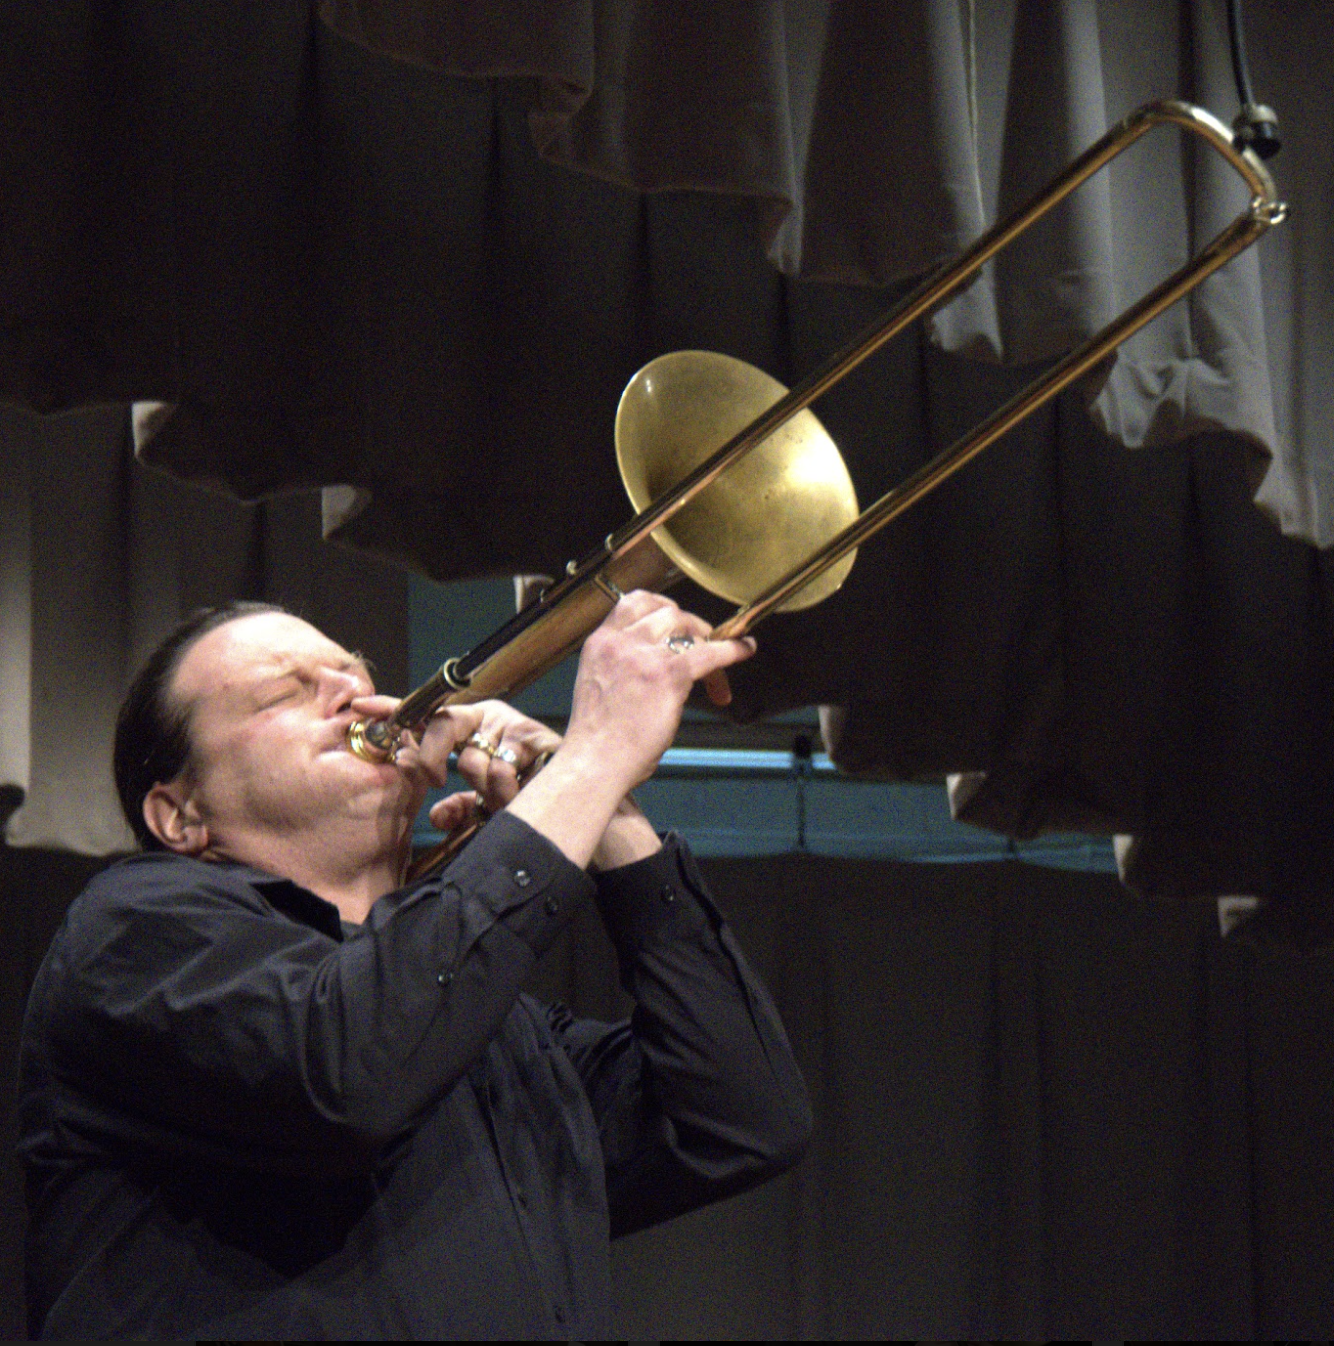
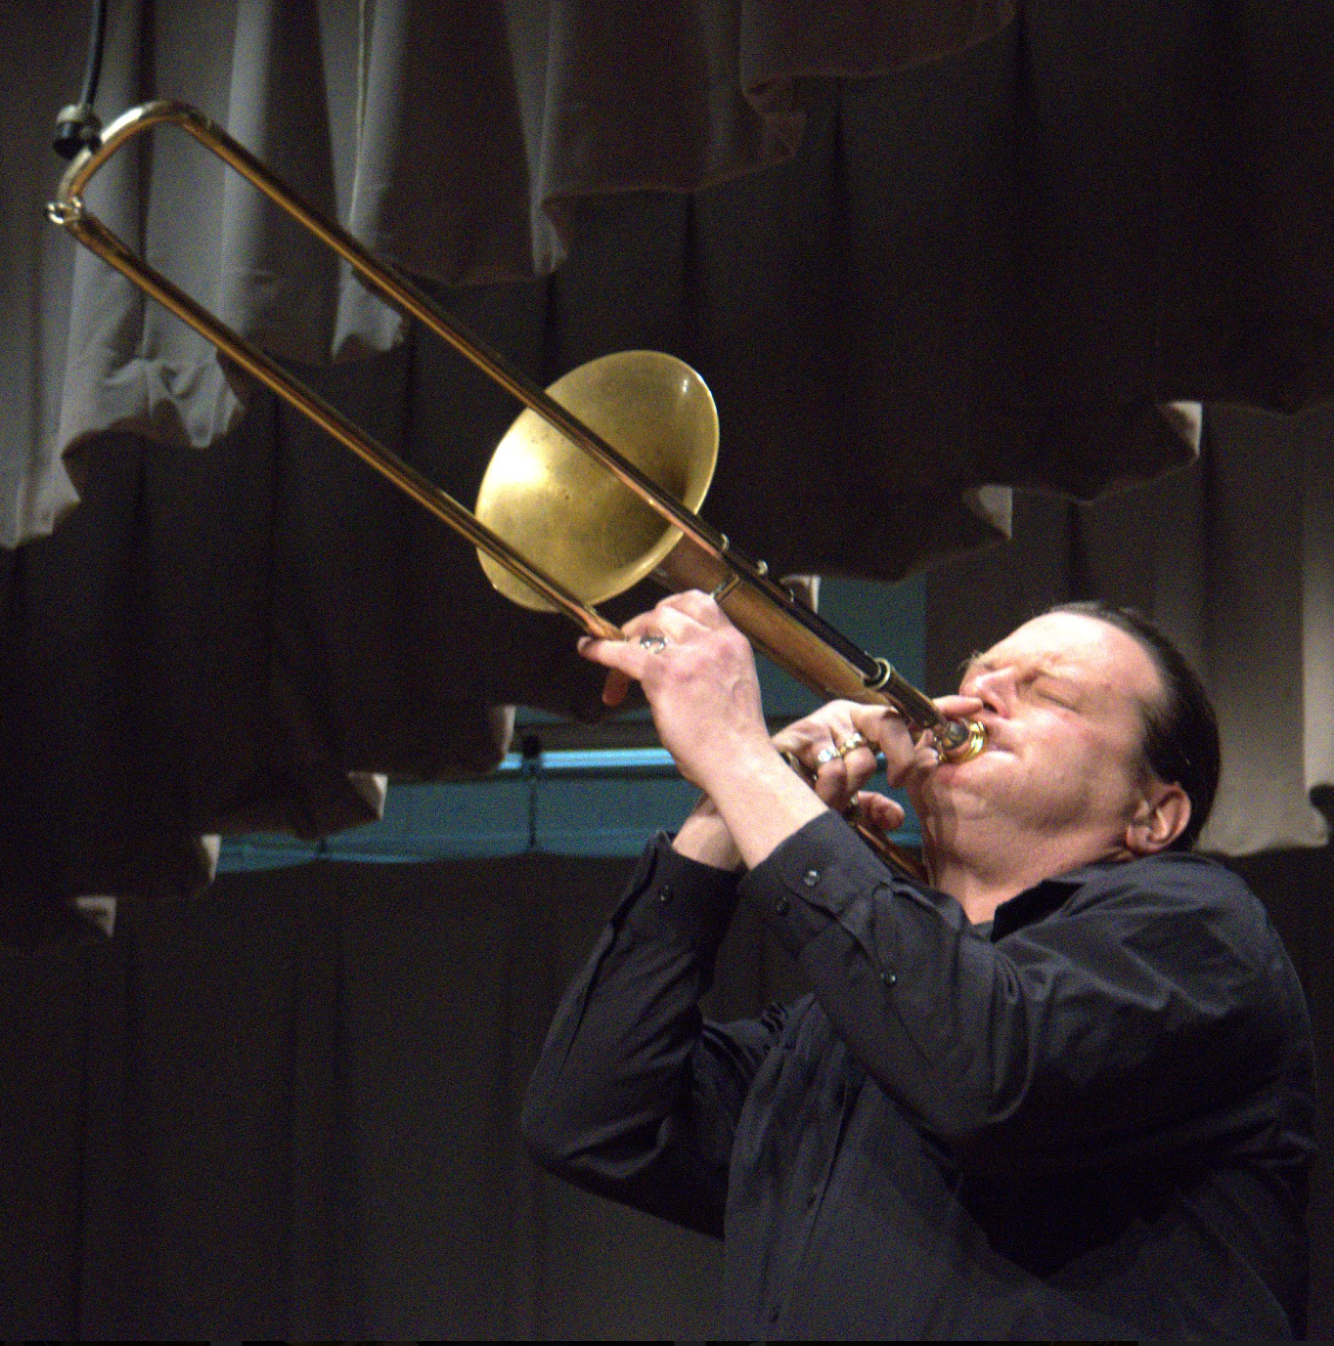
Responsive events page

diff --git a/src/pages/Events.tsx b/src/pages/Events.tsx
@@ -1,26 +1,30 @@
 import { Card, CardContent, CardHeader, CardTitle } from "@/components/ui/card";
+import LJBRobAlt from "../lib/assets/LJB_RobSusman.webp";
 import LJBRob from "../lib/assets/LJBRob.webp";
 import AWLogo from "../lib/assets/artsWestchesterLogo.png";
 
 const Events = () => {
   return (
     <div>
-      <img src={LJBRob} />
-      <div className="absolute inset-y-0 left-10 top-16 bg-neutral-900/75 p-10 w-2/6 h-full">
-        <h1 className="font-roboto text-4xl tracking-wide text-amber-400 mb-4 place-self-center ">
+      <picture>
+        <source srcSet={LJBRob} media="(min-width: 1400px)" />
+        <img src={LJBRobAlt} className="hidden lg:block"/>
+      </picture>
+      <div className="absolute inset-y-12 lg:inset-y-0 lg:left-10 lg:top-16 bg-neutral-900/75 p-10 w-screen lg:w-2/6 h-fit">
+        <h1 className="font-roboto text-2xl lg:text-4xl tracking-wide text-amber-400 mb-4 place-self-center ">
           Events
         </h1>
-        <h2 className="font-roboto text-2xl tracking-wide text-amber-400 mb-4">
+        <h2 className="font-roboto text-lg lg:text-2xl tracking-wide text-amber-400 mb-4">
           2024
         </h2>
         <Card className="mb-6">
           <CardHeader>
-            <CardTitle className="font-roboto text-lg">
+            <CardTitle className="font-roboto text-md lg:text-lg">
               <span>It's Showtime: LJB Takes on Broadway</span>
             </CardTitle>
           </CardHeader>
           <CardContent>
-            <h2 className="text-md text-indigo-900 font-bold">
+            <h2 className="text-sm lg:text-md text-indigo-900 font-bold">
               Sunday, November 17 at 2pm
             </h2>
             <span className="text-sm font-robotoThin">
@@ -28,7 +32,7 @@ const Events = () => {
             </span>
           </CardContent>
           <CardContent>
-            <h2 className="text-md text-indigo-900 font-bold">
+            <h2 className="text-sm lg:text-md text-indigo-900 font-bold">
               Sunday, November 24 at 2pm
             </h2>
             <span className="text-sm font-robotoThin">
@@ -45,17 +49,17 @@ const Events = () => {
             </p>
           </CardContent>
         </Card>
-        <h2 className="font-roboto text-2xl tracking-wide text-amber-400 mb-4">
+        <h2 className="font-roboto text-lg lg:text-2xl  tracking-wide text-amber-400 mb-4">
           2025
         </h2>
         <Card>
           <CardHeader>
-            <CardTitle className="font-roboto  text-lg">
+            <CardTitle className="font-roboto text-md lg:text-lg">
               <span>Hitting the Low Notes</span>
             </CardTitle>
           </CardHeader>
           <CardContent>
-            <h2 className="text-md text-indigo-900 font-bold">
+            <h2 className="text-sm lg:text-md text-indigo-900 font-bold">
               April 2025 [Date TBD]
             </h2>
 
@@ -67,22 +71,39 @@ const Events = () => {
             </p>
           </CardContent>
         </Card>
+        <div className="relative lg:hidden">
+          <div className="flex absolute -inset-x-10 inset-y-40 bg-neutral-900/75 p-10 w-screen h-2/4 rounded-xl items-center font-robotoThin  text-sm text-center">
+            <Card className="mt-20 md:mt-32">
+              <CardHeader>
+                <img src={AWLogo}></img>
+              </CardHeader>
+              <CardContent>
+                <p>
+                  Library Jazz Band’s 2024 - 2025 Season is made possible with
+                  funds from Arts Alive, a regrant program of ArtsWestchester
+                  with support from the Office of the Governor, the New York
+                  State Legislature, and the New York State Council on the Arts.
+                </p>
+              </CardContent>
+            </Card>
+          </div>
+        </div>
       </div>
-      <div className="flex absolute inset-y-0 right-10 top-36 bg-neutral-900/75 p-10 w-2/6 h-2/4 rounded-xl items-center font-robotoThin  text-sm text-center">
-        <Card>
-          <CardHeader>
-            <img src={AWLogo}></img>
-          </CardHeader>
-          <CardContent>
-            <p>
-              Library Jazz Band’s 2024 - 2025 Season is made possible with funds
-              from Arts Alive, a regrant program of ArtsWestchester with support
-              from the Office of the Governor, the New York State Legislature,
-              and the New York State Council on the Arts.
-            </p>
-          </CardContent>
-        </Card>
-      </div>
+      <div className="hidden lg:block absolute inset-y-0 right-10 top-36 bg-neutral-900/75 p-10 w-2/6 h-fit rounded-xl items-center font-robotoThin  text-sm text-center">
+            <Card>
+              <CardHeader>
+                <img src={AWLogo}></img>
+              </CardHeader>
+              <CardContent>
+                <p>
+                  Library Jazz Band’s 2024 - 2025 Season is made possible with
+                  funds from Arts Alive, a regrant program of ArtsWestchester
+                  with support from the Office of the Governor, the New York
+                  State Legislature, and the New York State Council on the Arts.
+                </p>
+              </CardContent>
+            </Card>
+          </div>
     </div>
   );
 };

diff --git a/src/styles/background.css b/src/styles/background.css
@@ -1,4 +1,4 @@
-body {
+.background {
   background: linear-gradient(
     0deg,
     rgba(255, 255, 255, 1) 87%,
@@ -7,7 +7,7 @@ body {
 }
 
 @media screen and (min-width: 420px) {
-  body {
+  .background {
     background: linear-gradient(
       0deg,
       rgba(255, 255, 255, 1) 84%,
@@ -17,7 +17,7 @@ body {
 }
 
 @media screen and (min-width: 750px) {
-  body {
+  .background {
     background: linear-gradient(
       0deg,
       rgba(255, 255, 255, 1) 79%,
@@ -27,7 +27,7 @@ body {
 }
 
 @media screen and (min-width: 1024px) {
-  body {
+  .background {
     background: linear-gradient(
       0deg,
       rgba(255, 255, 255, 1) 78%,
@@ -37,7 +37,7 @@ body {
 }
 
 @media screen and (min-width: 1440px) {
-  body {
+  .background {
     background: linear-gradient(
       0deg,
       rgba(255, 255, 255, 1) 78%,
@@ -48,7 +48,7 @@ body {
 
 
 @media screen and (min-width: 2000px) {
-  body {
+  .background {
     background: linear-gradient(
       0deg,
       rgba(255, 255, 255, 1) 89%,

diff --git a/src/App.tsx b/src/App.tsx
@@ -16,9 +16,9 @@ function App() {
             <NavBar />
           </div>
           <Routes>
-            <Route path="/" element={<Landing />} />
-            <Route path="/about" element={<AboutPage />} />
+            <Route path="/" element={<Landing/>} />
             <Route path="/events" element={<Events />} />
+            <Route path="/about" element={<AboutPage />} />
             <Route path="/donate" element={<Donate />} />
           </Routes>
         </BrowserRouter>

diff --git a/src/pages/AboutPage.tsx b/src/pages/AboutPage.tsx
@@ -5,7 +5,7 @@ import "../styles/background.css";
 
 const AboutPage = () => {
   return (
-    <div className="flex flex-col items-center w-screen">
+    <div className="flex flex-col items-center w-screen background">
       <div className="w-screen h-1/5 flex flex-col justify-center items-center">
         <h1 className="text-amber-500 mb-10 font-bebasNeue tracking-wide text-4xl">
           About Library Jazz Band

diff --git a/src/pages/Donate.tsx b/src/pages/Donate.tsx
@@ -8,7 +8,7 @@ import { Link } from "react-router-dom";
 
 const Donate = () => {
   return (
-    <div className="flex flex-col items-center w-screen">
+    <div className="flex flex-col items-center w-screen background">
       <div className="w-screen h-1/5 flex flex-col justify-center items-center">
         <h1 className="text-amber-500 mb-10 font-bebasNeue tracking-wide text-4xl">
           Support the LJB!

diff --git a/src/index.css b/src/index.css
@@ -28,6 +28,7 @@ body {
   display: flex;
   min-width: 100vw;
   min-height: 100vh;
+  background-color: #171717;
 }
 
 h1 {
